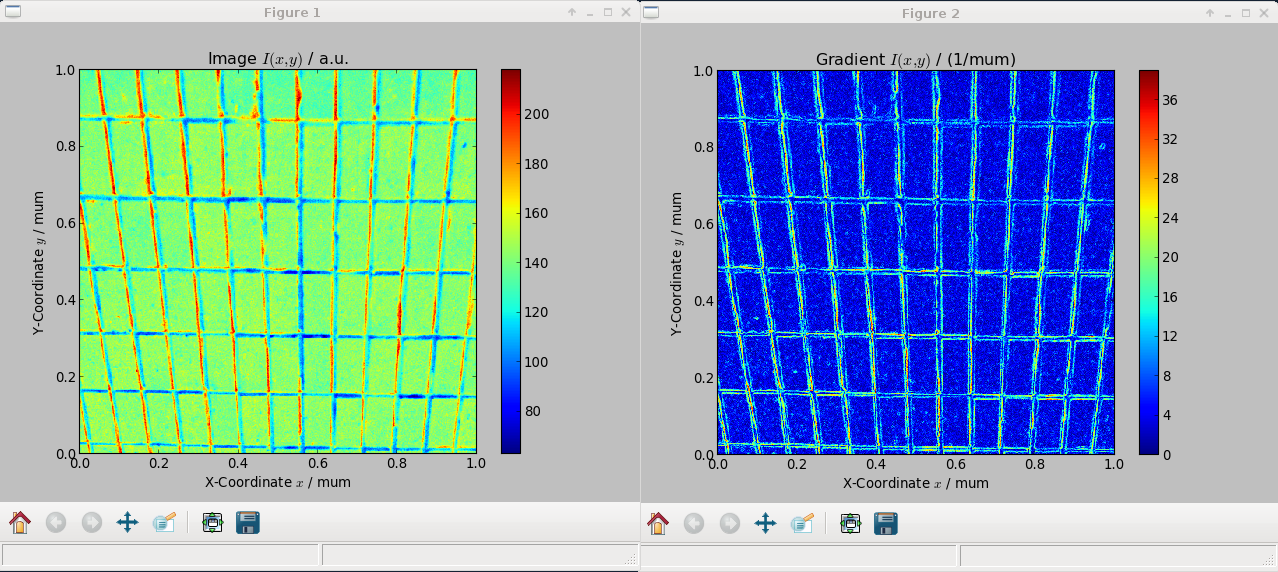
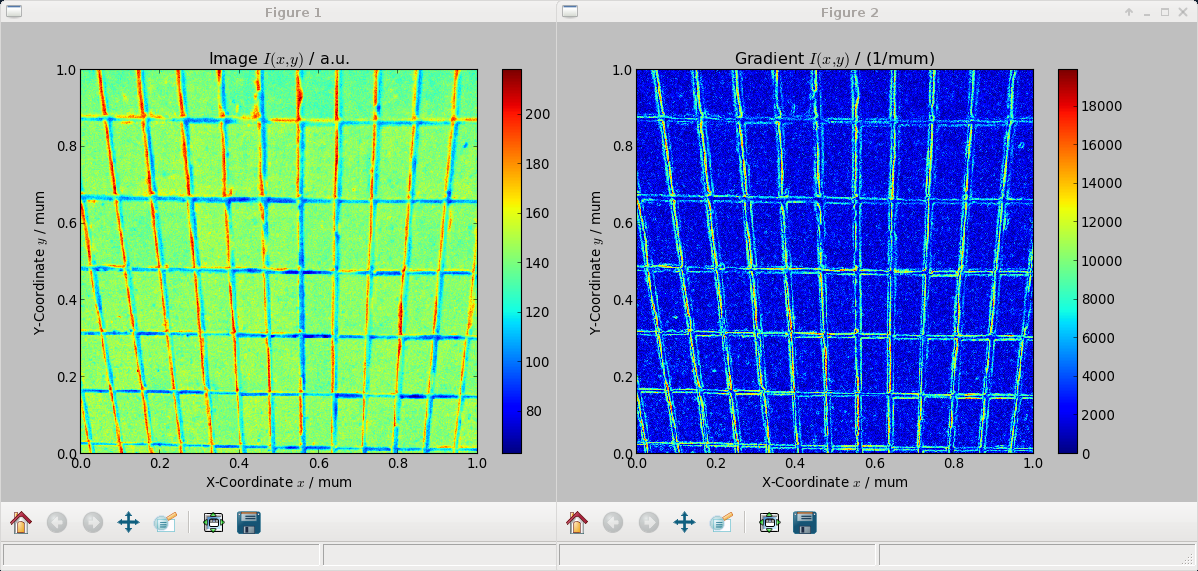
doc: finishes GUI part of the quick tour in the manual
replaces doc/manual/fig/gui_imagevis_gradient.png due to change in
Gradient worker (#96).

diff --git a/doc/manual/manual.tex b/doc/manual/manual.tex
@@ -140,7 +140,7 @@ for the readers familiar with numpy\cite{numpy}, a |FieldContainer| is
 an extension of a numpy array adding units, axes and some more
 features. This explains the occurance of the three other parameters in
 \autoref{fig:gui_LI_worker_parameters}. The default values are to
-convert the image to a dimensionless field with a pixel size of
+convert the image to a dimensionless field with a size of
 \SI{1}{\micro\metre\squared}. The syntax for entering units is the
 same as in the Full-Metadata Format\cite{Riede2010651}. The special
 value |link2X| indicates to use the same scaling for the y-axis as for
@@ -232,6 +232,40 @@ incompatible. Try to set the axes units for instance to \si{m} and
 \si{s}. You will get an error message and a python traceback will be
 written to the log file which is also visible in the bottom of the
 GUI. Go back and set both units to be compatible again.
+
+In a last step, we add the |Histogram| worker from the |Statistics|
+toolbox to the recipe. It takes a |FieldContainer| as input and
+calculates a histogram of its field values as an output. In that case,
+the output is a one dimensional |FieldContainer| irrespective of the
+dimensionality of the input. You may want to set its |Bins| parameter
+to a higher value than the default (10). Connect the |Gradient|
+worker's output |Plug| to the |Socket| of the |Histogram| worker. Once
+you're done with that, you can visualize the histogram by choosing the
+|Bar chart| visualizer on the |Histogram| worker's |Plug| which is
+appropriate for histograms. If you are uncertain about those steps, go
+back and review how we connected the |Gradient| worker and visualized
+its output. In our case, the resulting visualization for 50 bins is
+shown in \autoref{fig:gui_barvis_histo} as a reference. Your result
+may differ depending on the image you have chosen, its scaling and the
+number of bins you entered.
+\begin{figure}[h]
+  \centering
+  \includegraphics[scale=0.75]{fig/gui_barvis_histo.png}
+  \caption{Bar chart visualization of a 50 bin histogram of the
+    gradient magnitude}
+  \label{fig:gui_barvis_histo}
+\end{figure}
+
+Having completed your first recipe, it is time to save it to
+disk. The according menu items are found in the |File| menu. Also
+notice the |Save results| checkbox in the |File| menu. It controls
+whether the cached results of the workers should be saved to disk for
+faster evaluation when reloading the recipe. You may uncheck it in
+order to save disk space.
+
+This completes the GUI part of the quick tour. In the next section, we
+will learn how to write our own workers and visualizers and how to use
+pyphant through its python API rather than through the GUI.
 
 \FloatBarrier
 \subsubsection{Extending and Scripting Pyphant}
